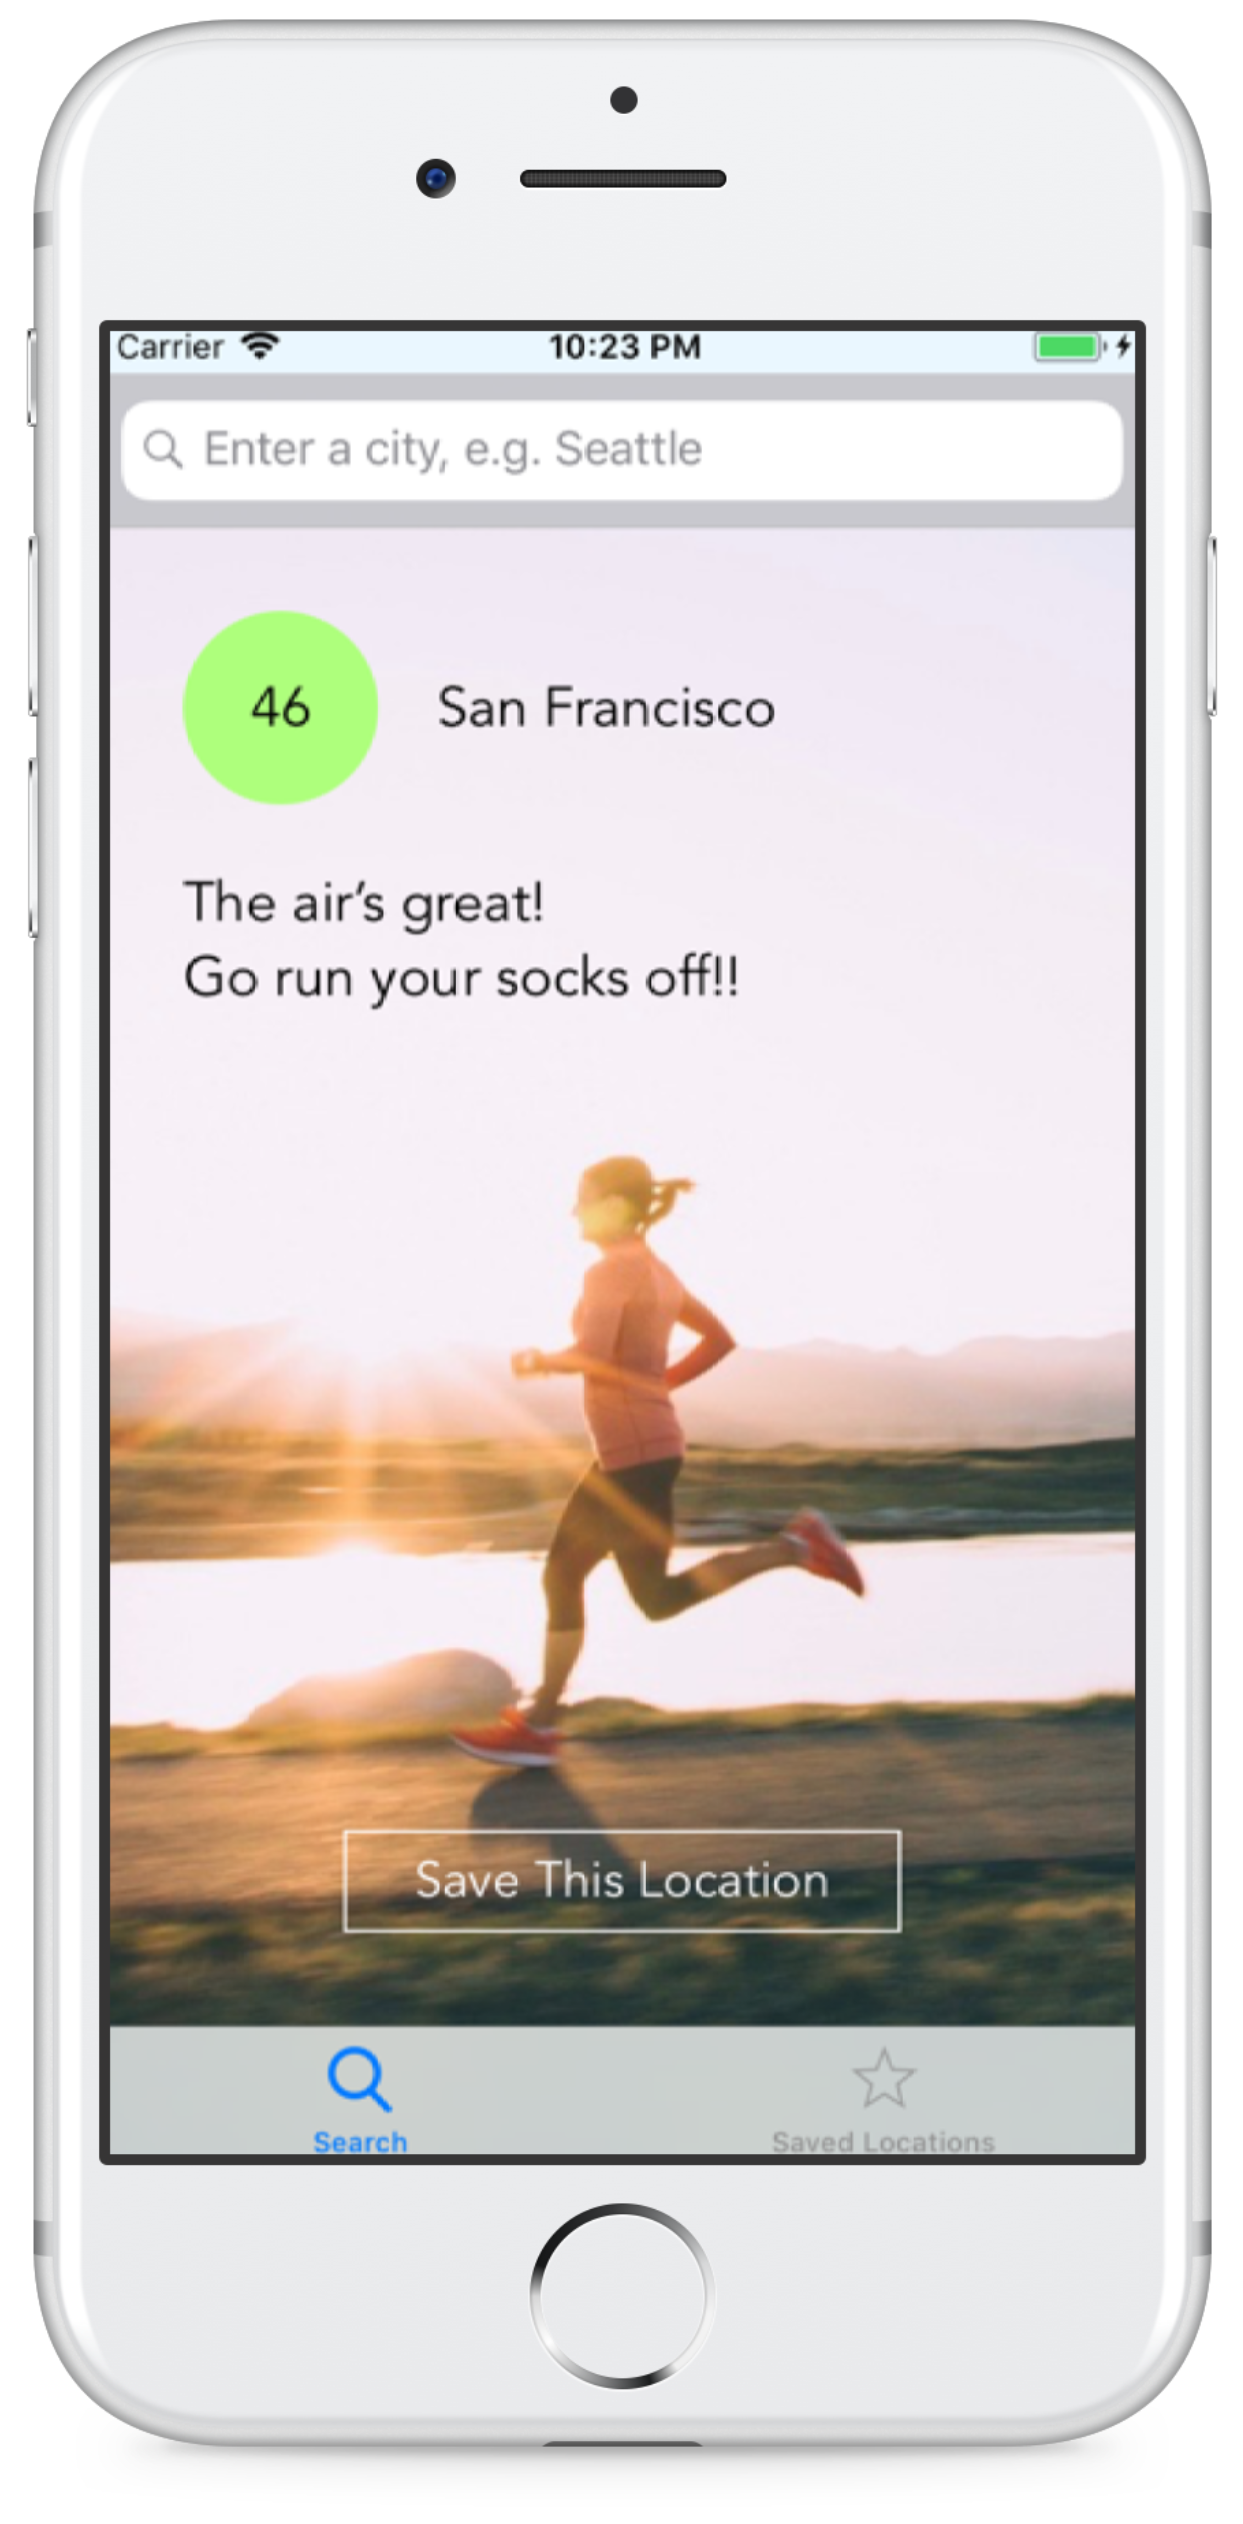
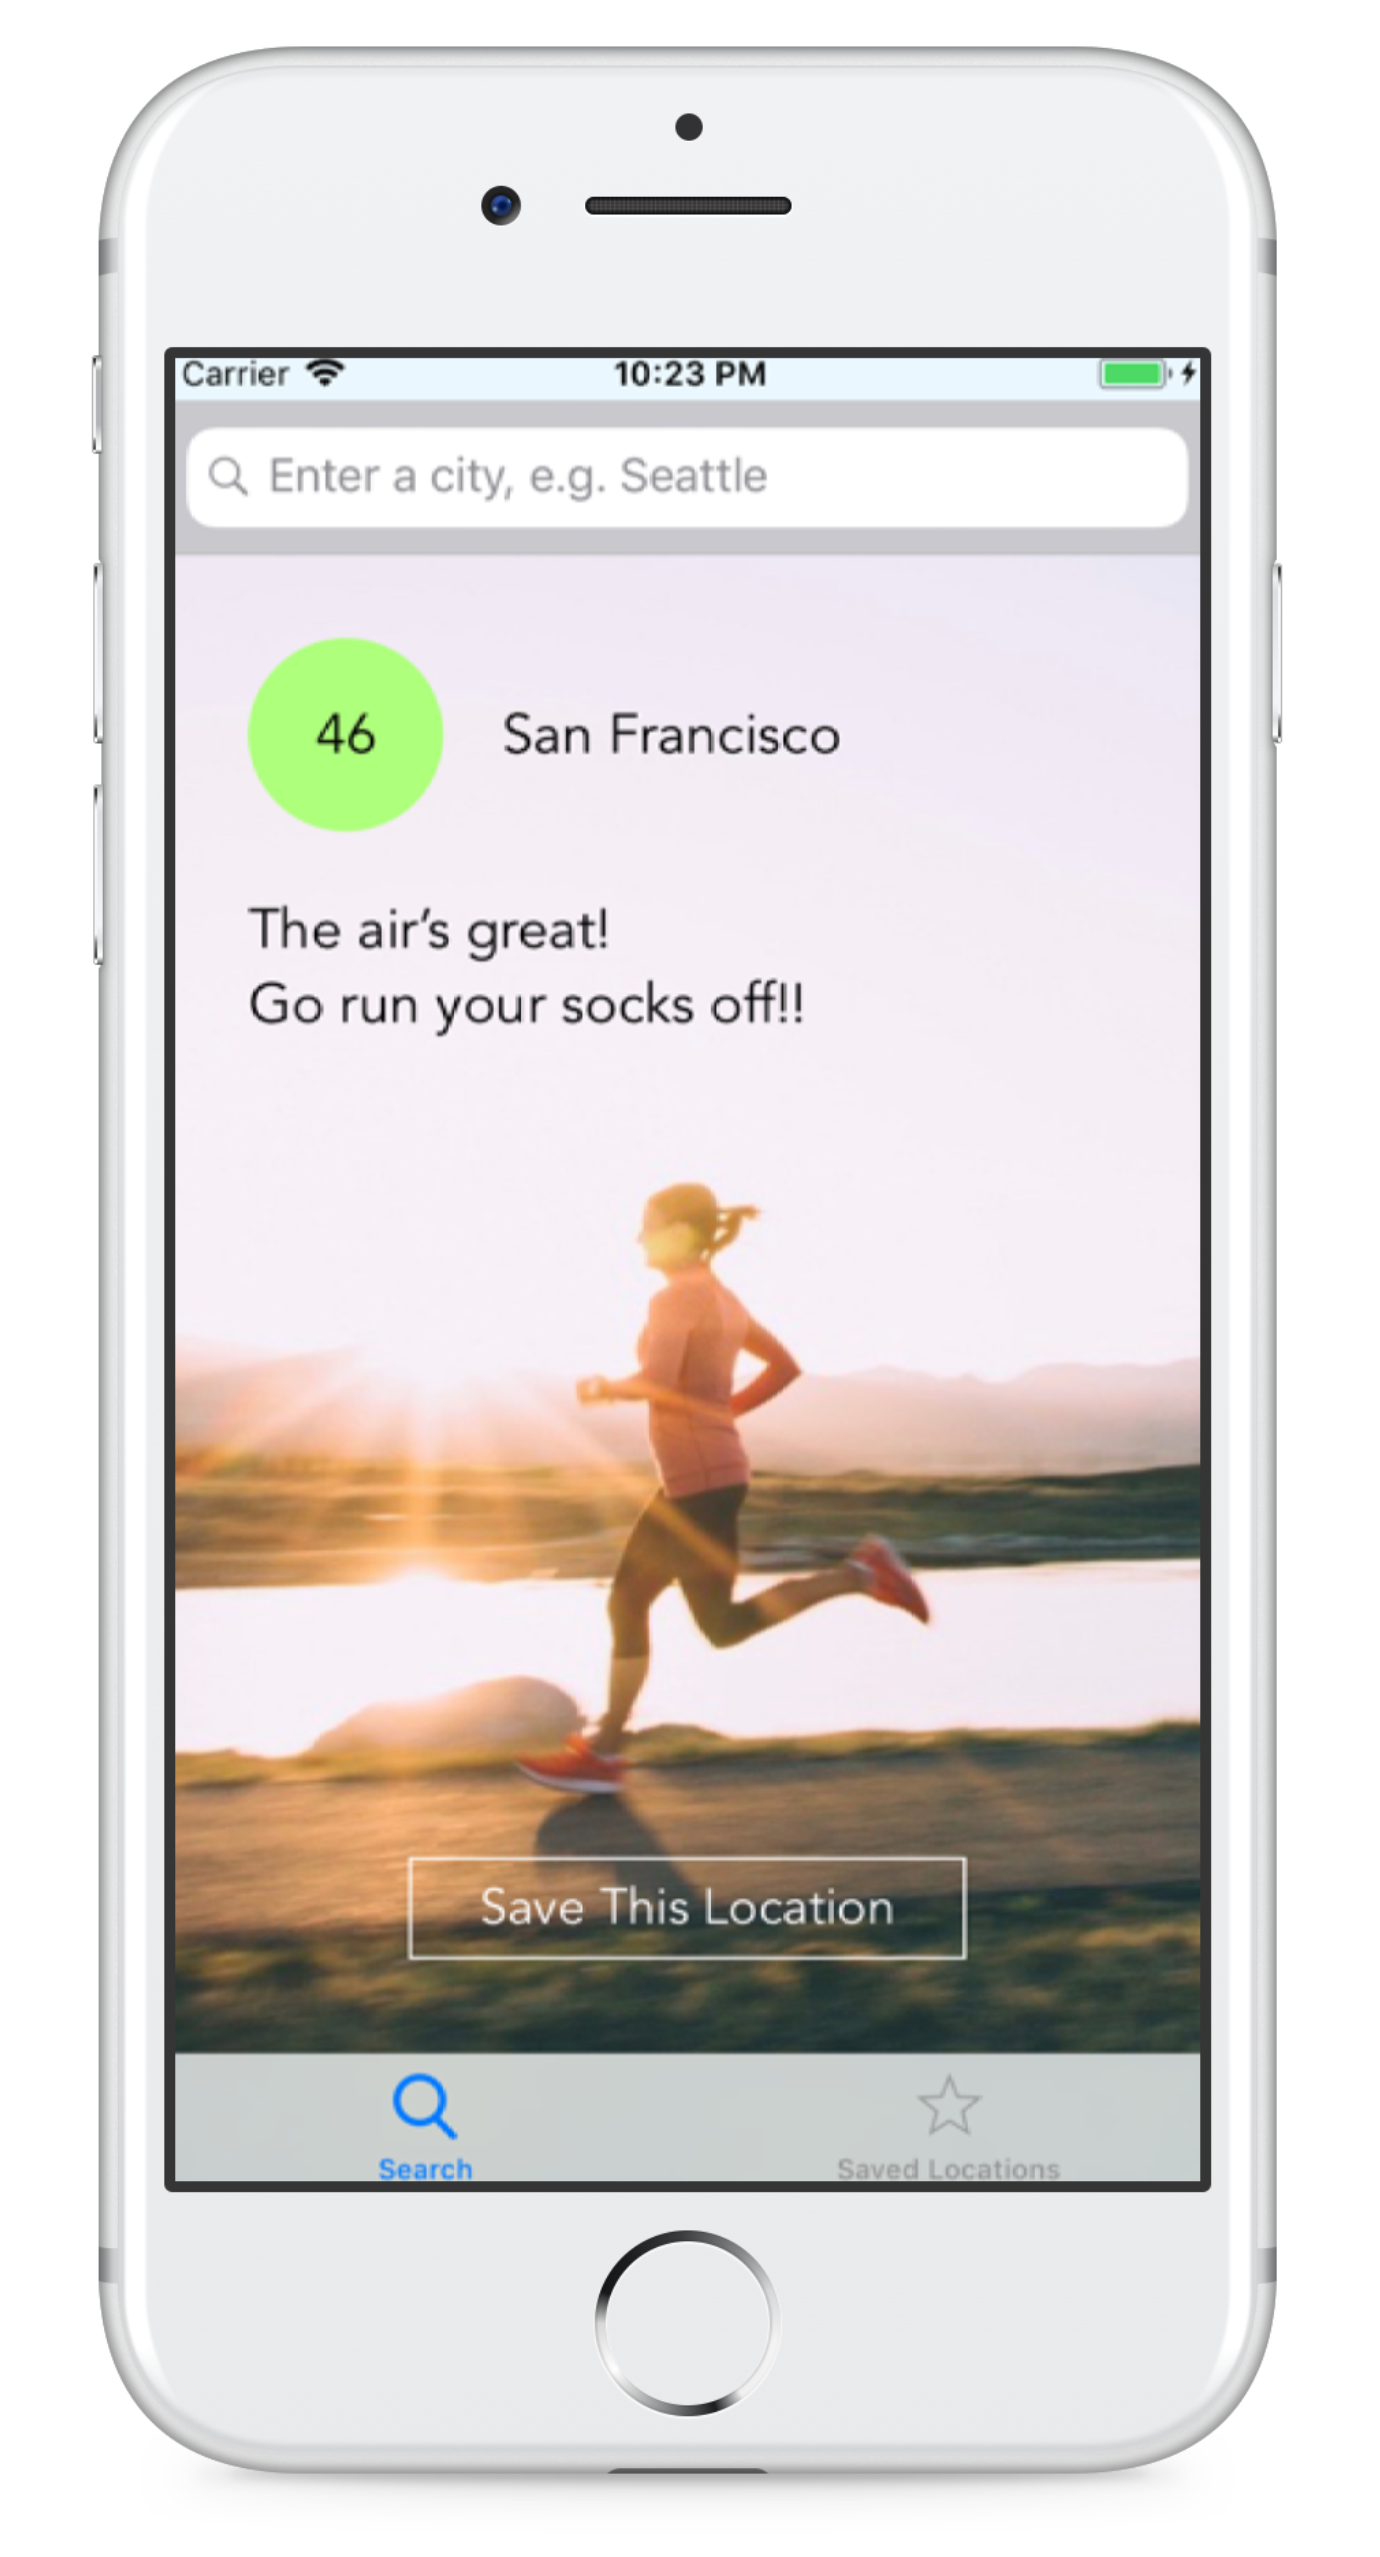
Add new mobile mockup
Mockup of iPhone plugged in

diff --git a/pages/aircheck.html b/pages/aircheck.html
@@ -19,7 +19,7 @@
 		 	<div class="row">
 					<div class="col-md-3 col-xs-2"></div>
 					<div class="col-md-6 col-xs-8">
-						<img class="mobile" src="../assets/aircheck_iphone.png">
+						<img class="design-narrow" src="../assets/aircheck_iphone.png">
 						<p class="button-blue"><br><a href="https://itunes.apple.com/us/app/runners-air-check/id1265215017" target="_blank" class="smoothScroll button">&nbsp;&nbsp;View on App Store&nbsp;&nbsp;</a></p>
 					</div>
 				<div class="col-md-3 col-xs-2"></div></div>

diff --git a/pages/flyer.html b/pages/flyer.html
@@ -18,7 +18,7 @@
 		 	<div class="row">
 					<div class="col-md-3 col-xs-2"></div>
 					<div class="col-md-6 col-xs-8">
-						<img class="design" src="../assets/flyer.png">
+						<img class="design-narrow" src="../assets/flyer.png">
 						<p class="button-blue"><br><a href="flyer.pdf" target="_blank" class="smoothScroll button-blue">&nbsp;&nbsp;View PDF&nbsp;&nbsp;</a></p>
 					</div>
 				<div class="col-md-3 col-xs-2"></div></div>

diff --git a/index.html b/index.html
@@ -101,7 +101,7 @@
 					</div>
 
 					<div class="col-md-4 col-sm-12">
-						<a href="pages/aircheck.html"><img src="assets/aircheck.png" class="projects hvr-grow"/>
+						<a href="pages/aircheck.html"><img src="assets/aircheck_iphone_plugged.png" class="projects hvr-grow"/>
 						</a> 
 						<div><p class="caption">Air Quality Mobile App<br><span class="subcaption">Mobile Development/Design</span></p></div>
 					</div>

diff --git a/css/design.css b/css/design.css
@@ -13,8 +13,8 @@ img.design {
     height: auto;
 }
 
-img.mobile {
-    width: 50%;
+img.design-narrow {
+    width: 45%;
     height: auto;
     display: block;
     margin: 0 auto;
